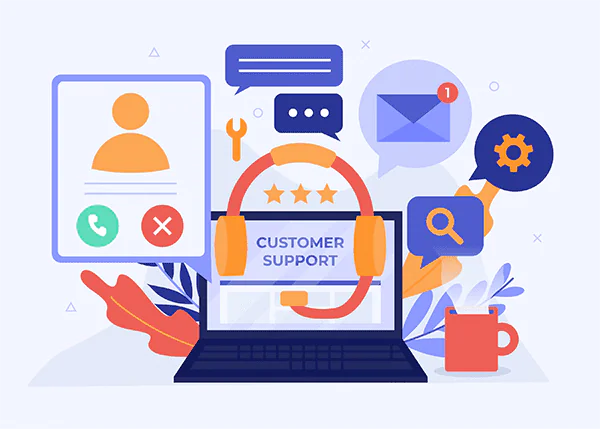
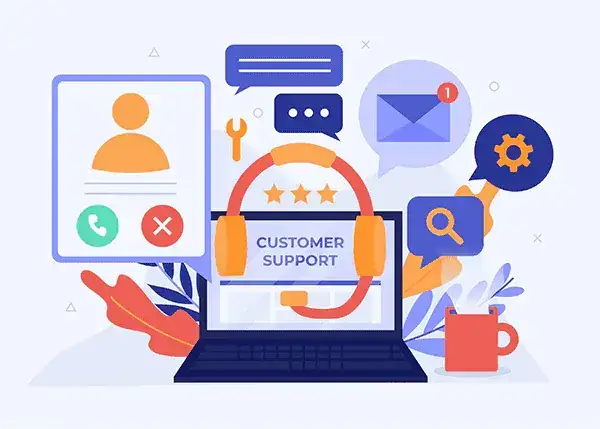
SEO performance, finished the cards

diff --git a/src/components/card.jsx b/src/components/card.jsx
@@ -1,30 +1,27 @@
 import {useState} from "react";
-import {Badge, Button, Card, Group, Image, Modal, Text, Title} from "@mantine/core";
+import {Badge, Button, Card, Container, Group, Image, Modal, Text, Title} from "@mantine/core";
 import {Col, Row} from "react-bootstrap";
 
 const cardData = [
     {
-        imageRoute: "src/assets/img/invoice.jpg",
+        imageRoute: "src/assets/img/invoice.webp",
         function: "internship",
-        title: "Invoice module",
+        title: "Invoice Module",
         slug: "Created an invoice management module during my internship.",
-        fullDescription: "",
         themeColor: "teal"
     },
     {
-        imageRoute: "src/assets/img/hrm.jpg",
+        imageRoute: "src/assets/img/hrm.webp",
         function: "internship",
         title: "HRM System",
         slug: "Tracked employee free hours and optimized HR processes.",
-        fullDescription: "",
         themeColor: "indigo"
     },
     {
-        imageRoute: "src/assets/img/insights.jpg",
+        imageRoute: "src/assets/img/insights.webp",
         function: "internship",
         title: "Insights Dashboard",
         slug: "Created an analytics module using C# and .NET.",
-        fullDescription: "",
         themeColor: "cyan"
     },
     {
@@ -32,8 +29,14 @@ const cardData = [
         function: "work",
         title: "Customer Portal",
         slug: "Developed a portal for customer self-service.",
-        fullDescription: "",
         themeColor: "violet"
+    },
+    {
+        imageRoute: "src/assets/img/portfolio-card.webp",
+        function: "personal",
+        title: "Portfolio Website",
+        slug: "Developed a portfolio website in React!",
+        themeColor: "red"
     }
 ];
 
@@ -44,10 +47,10 @@ export function CardProjects() {
         <>
             <Row className={"g-4 justify-content-center"}>
                 {cardData.map((card) => (
-                    <Col key={card.title} xs={12} md={6} lg={4} className={"justify-content-start"}>
-                        <Card key={card.title} shadow="lg" padding="lg" className={"m-2"} radius="md" withBorder>
+                    <Col key={card.title} xs={12} sm={6} md={6} lg={4} style={{maxHeight: '355px'}} className={"justify-content-start"}>
+                        <Card key={card.title} shadow="lg" padding="lg" style={{height: '100%'}} className={"m-2"} radius="md" withBorder>
                             <Card.Section>
-                                <Image src={card.imageRoute} height={160} alt="project image"/>
+                                <Image src={card.imageRoute} height={160} style={{width: '100%'}} alt="project image"/>
                             </Card.Section>
 
                             <Group className={"justify-content-center w-100"} mt={"xs"} mb={"xs"}>
@@ -57,7 +60,7 @@ export function CardProjects() {
                                     </Col>
                                 </Row>
                                 <Row className={"w-100"}>
-                                    <Col xs={12} sm={12} md={12} lg={12}>
+                                    <Col className={"justify-content-center d-flex"} xs={12} sm={12} md={12} lg={12}>
                                         <Badge color={card.themeColor} variant={"filled"}>{card.function}</Badge>
                                     </Col>
                                 </Row>
@@ -89,11 +92,156 @@ export function CardProjects() {
                     size="xl"
                     title={openedCard.title}
                 >
-                    <Image src={openedCard.imageRoute} height={140} alt="project image"/>
-                    <Title>{openedCard.title}</Title>
-                    <Text>{openedCard.fullDescription || "No description available."}</Text>
+                    <Image src={openedCard.imageRoute} style={{width: '100%', height: '180px'}} radius={"md"} alt="project image"/>
+                    <Container className={"py-2 border-bottom"}>
+                        <Title>{openedCard.title}</Title>
+                    </Container>
+                    <Text>{getCardDescription(openedCard.title)}</Text>
                 </Modal>
             )}
         </>
     );
+
+    function getCardDescription(title) {
+        switch (title) {
+            case "Invoice Module":
+                return (
+                    <Container>
+                        <Text size="lg">
+                            This was my first interaction with the software development field. The project was
+                            challenging
+                            because it was the first time I programmed something different from what I was used to
+                            in
+                            school. The back-end was built with Laravel 8.x, PHP 8.1, SQL, and XML, while the
+                            front-end was
+                            developed using Laravel Blade, Bootstrap, JQuery, and HTML/CSS.
+                        </Text>
+                        <Text size="lg" className="my-4">
+                            I created an invoice module for a large CRM platform, allowing customers to view their
+                            invoices and invoice lines,
+                            with the added functionality to download them as PDF files. The internship lasted for
+                            five months, and I had a
+                            great time working with the team.
+                        </Text>
+                        <Text size="lg">
+                            This experience made me realize that working for a small company is more about social
+                            interaction and collaboration
+                            than solely focusing on performance. Of course, it’s still important to avoid
+                            underperforming.
+                        </Text>
+                    </Container>
+                );
+            case "HRM System":
+                return (
+                    <Container>
+                        <Text size="lg">
+                            The year after my first internship, I returned to the same company, this time with a bit
+                            more
+                            experience. This time, I built an HRM system for the HR department where employees could
+                            request
+                            their days off or vacations. The system generated a PDF showing a list of their hours:
+                            hours before
+                            - hours requested - hours remaining. Each year, it automatically reset the hours back to
+                            200-something hours.
+                        </Text>
+                        <Text size="lg" className="my-4">
+                            This was a simple widget added to the CRM dashboard. This project was also my first
+                            experience working with roles
+                            and permissions, which was a challenge for me.
+                        </Text>
+                        <Text size="lg">
+                            The back-end was built with Laravel 8.x,
+                            PHP 8.2, SQL, and XML,
+                            while the front-end was developed using Laravel Blade, Bootstrap, JQuery, and HTML/CSS.
+                        </Text>
+                    </Container>
+                );
+            case "Insights Dashboard":
+                return (
+                    <Container>
+                        <Text size="lg">
+                            During my third and final internship, which was my graduation internship, a classmate
+                            and I built an
+                            insights dashboard module. This module allowed customers to view analytics on their cash
+                            register
+                            transactions, orders, invoices, quotes, purchase orders, and warehouse stock. It
+                            displayed all this
+                            information in clear graphs and tables.
+                        </Text>
+                        <Text size="lg" className="my-4">
+                            The purpose of this module was to create an additional layer on top of the analytics
+                            page for the company I interned with,
+                            so we could access identical statistics for each company and better understand how each
+                            was performing.
+                        </Text>
+                        <Text size="lg">
+                            The back-end was developed using C#, .NET, and T-SQL, while the front-end was built with
+                            Vue.js, Bootstrap, and HTML/CSS.
+                        </Text>
+                    </Container>
+                );
+            case "Customer Portal":
+                return (
+                    <Container>
+                        <Text size="lg">
+                            After finishing school, I got a job at the company where I completed my last internship.
+                            Shortly
+                            after, I worked on the Insights Dashboard module before being assigned a new project —
+                            the Customer
+                            Portal. The in-house Project Management System (PMS) was built with PHP 7.3, so I
+                            suggested using
+                            Laravel 11.x and PHP 8.3 for the new project. They agreed, and together we created the
+                            Customer Portal.
+                        </Text>
+                        <Text size="lg" className="mt-4">
+                            This was familiar territory for me, as we were taught Laravel in school, and both of my
+                            previous internships
+                            involved working with Laravel. It felt like reconnecting with an old friend — catching
+                            up on what's new,
+                            but still familiar.
+                        </Text>
+                        <Text size="lg" className="mt-4">
+                            This was also my first time taking on a larger share of the work, as I had more
+                            experience with the language/framework
+                            being used. While the other developer focused on addressing ongoing maintenance issues
+                            with the PMS, I handled
+                            much of the development for the Customer Portal. It was an exciting and enjoyable
+                            experience for me.
+                        </Text>
+                        <Text size="lg" className="mt-4">
+                            The back-end was built with PHP 8.3, Laravel 11.x, and SQL, while the front-end was
+                            developed using Bootstrap and HTML/CSS.
+                        </Text>
+                    </Container>
+                );
+            case "Portfolio Website":
+                return (
+                    <Container>
+                        <Text size="lg">
+                            For a long time, I wanted to create something in React to gain a better understanding of
+                            front-end
+                            applications. So, I decided to create a portfolio website while learning React. As part
+                            of the learning
+                            process, I also wanted to understand how to deploy and host a website. I am familiar
+                            with GitHub Pages
+                            and have used it for several unfinished projects, but I wanted my own custom domain to
+                            make it more personal.
+                        </Text>
+                        <Text size="lg" className="mt-4">
+                            This project is built using React, Mantine, Bootstrap, and HTML/CSS, and is hosted by
+                            Strato.
+                        </Text>
+                    </Container>
+                );
+            default:
+                return (
+                    <Container>
+                        <Card shadow="sm" padding="lg" radius="md" withBorder>
+                            <Title order={2} className="text-center mb-4">No available description.</Title>
+                        </Card>
+                    </Container>
+
+                );
+        }
+    }
 }

diff --git a/index.html b/index.html
@@ -2,8 +2,18 @@
 <html lang="en">
   <head>
     <meta charset="UTF-8" />
-    <link rel="icon" type="image/svg+xml" href="src/assets/img/memoji.png" />
+    <link rel="icon" type="image/svg+xml" href="src/assets/img/memoji.webp" />
     <meta name="viewport" content="width=device-width, initial-scale=1.0" />
+
+<!--    Preloading images-->
+    <link rel="preload" href="src/assets/img/customer-portal.webp" as="image" />
+    <link rel="preload" href="src/assets/img/hrm.webp" as="image" />
+    <link rel="preload" href="src/assets/img/insights.webp" as="image" />
+    <link rel="preload" href="src/assets/img/memoji.webp" as="image" />
+    <link rel="preload" href="src/assets/img/portfolio-card.webp" as="image" />
+
+<!--    Description-->
+    <meta name="description" content="The portfolio website of Jesse de Koe" />
     <title>Jesse de Koe</title>
   </head>
   <body>

diff --git a/src/pages/landingspage.jsx b/src/pages/landingspage.jsx
@@ -34,7 +34,7 @@ export function LandingPage() {
 
                     <Col xs={12} md={4} className="d-flex justify-content-center align-items-center">
                         <Image
-                            src={"./src/assets/img/memoji.png"}
+                            src={"./src/assets/img/memoji.webp"}
                             alt={"memoji"}
                             style={{
                                 width: 200,
@@ -47,7 +47,7 @@ export function LandingPage() {
                     </Col>
                 </Row>
             </Container>
-            <Container>
+            <Container className={"mb-5"}>
                 <Row className="align-items-center pt-3">
                     <h2 className={`${isMobile ? 'px-3 text-center w-100' : 'ps-5'}`}>Projects</h2>
                     <Col xs={12} md={4} className="text-center w-100">

diff --git a/src/components/layout.jsx b/src/components/layout.jsx
@@ -21,7 +21,7 @@ export function Layout({children}) {
                     </Row>
                 </>
             ) : (
-                <Row className="g-0" style={{height: "100vh"}}>
+                <Row className={"g-0"} style={{height: "100vh"}}>
                     {/* Desktop Layout */}
                     <div
                         className="desktop-navbar border-end"
